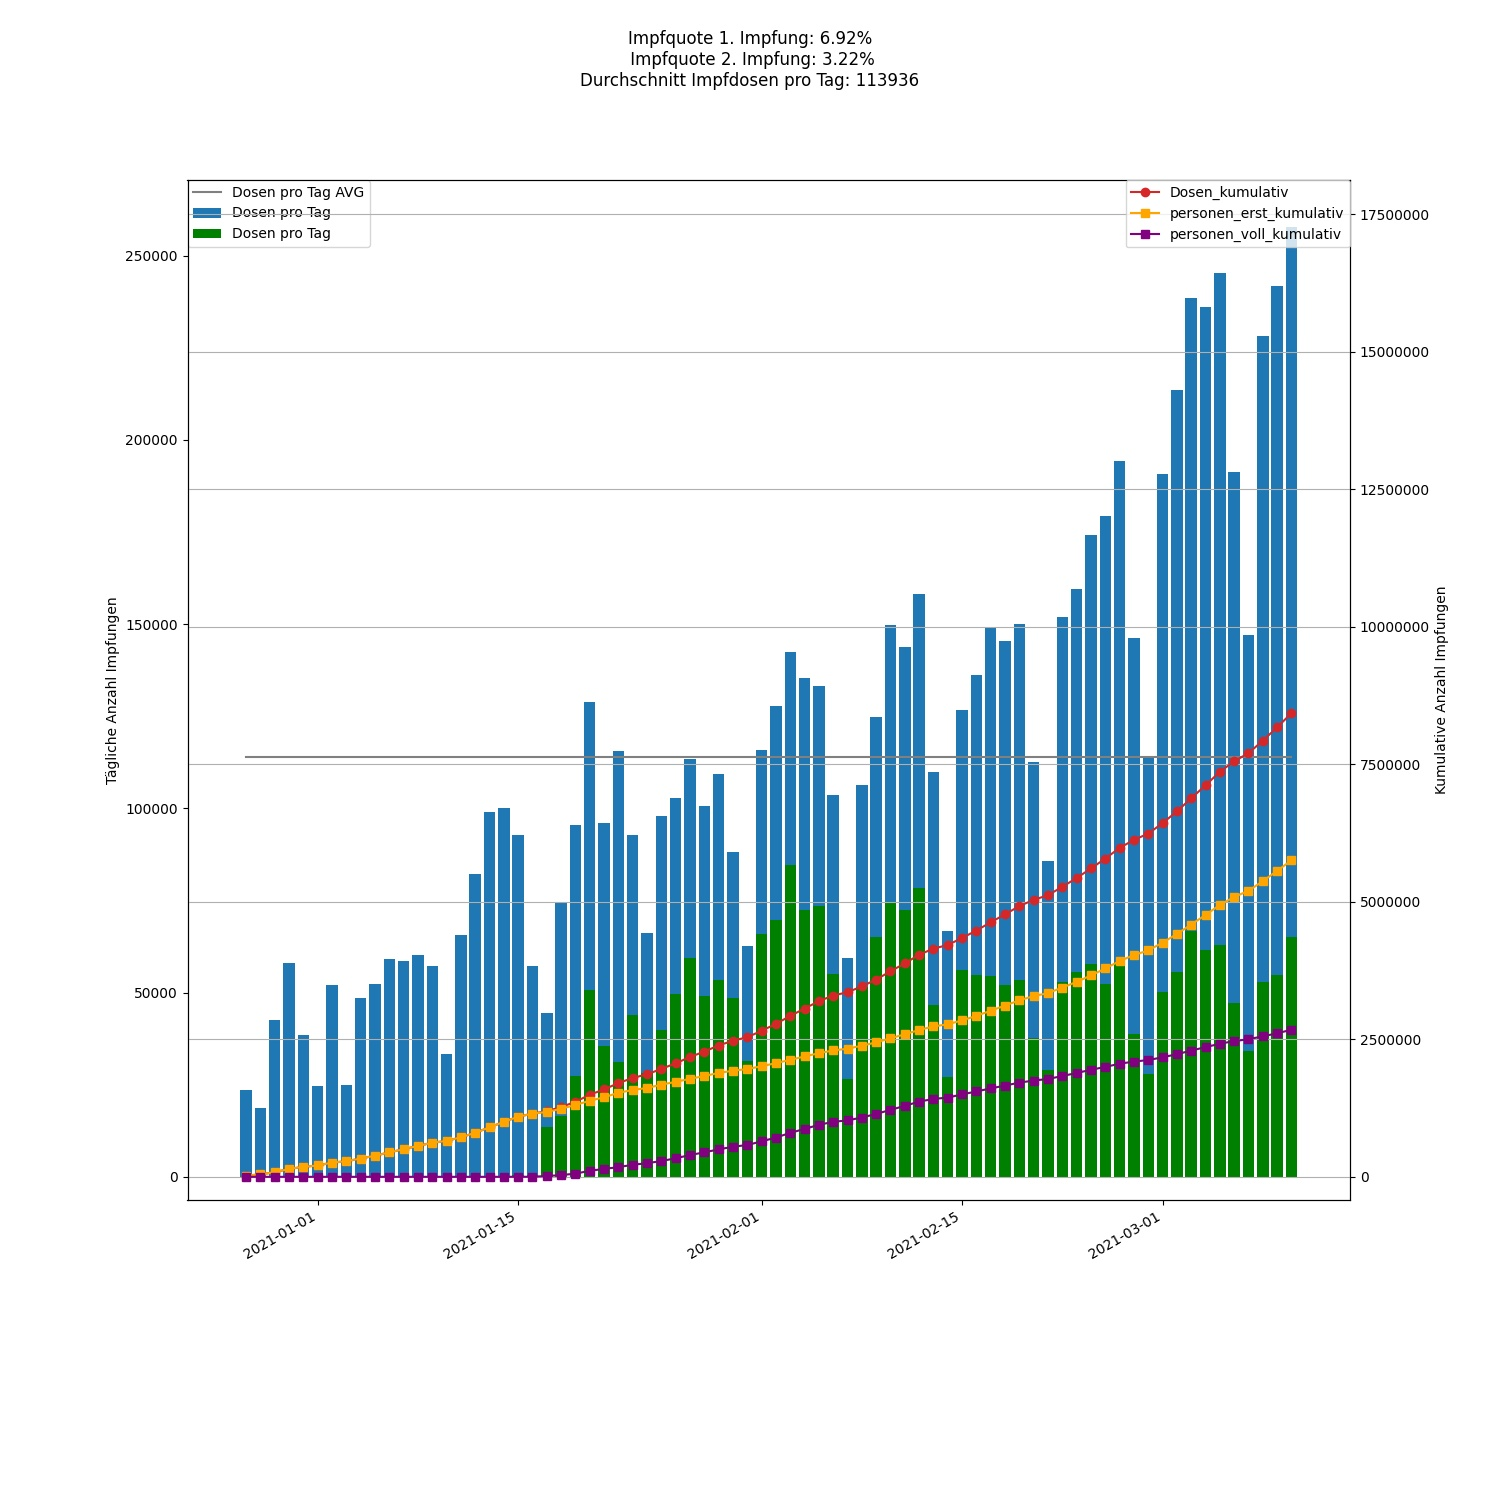
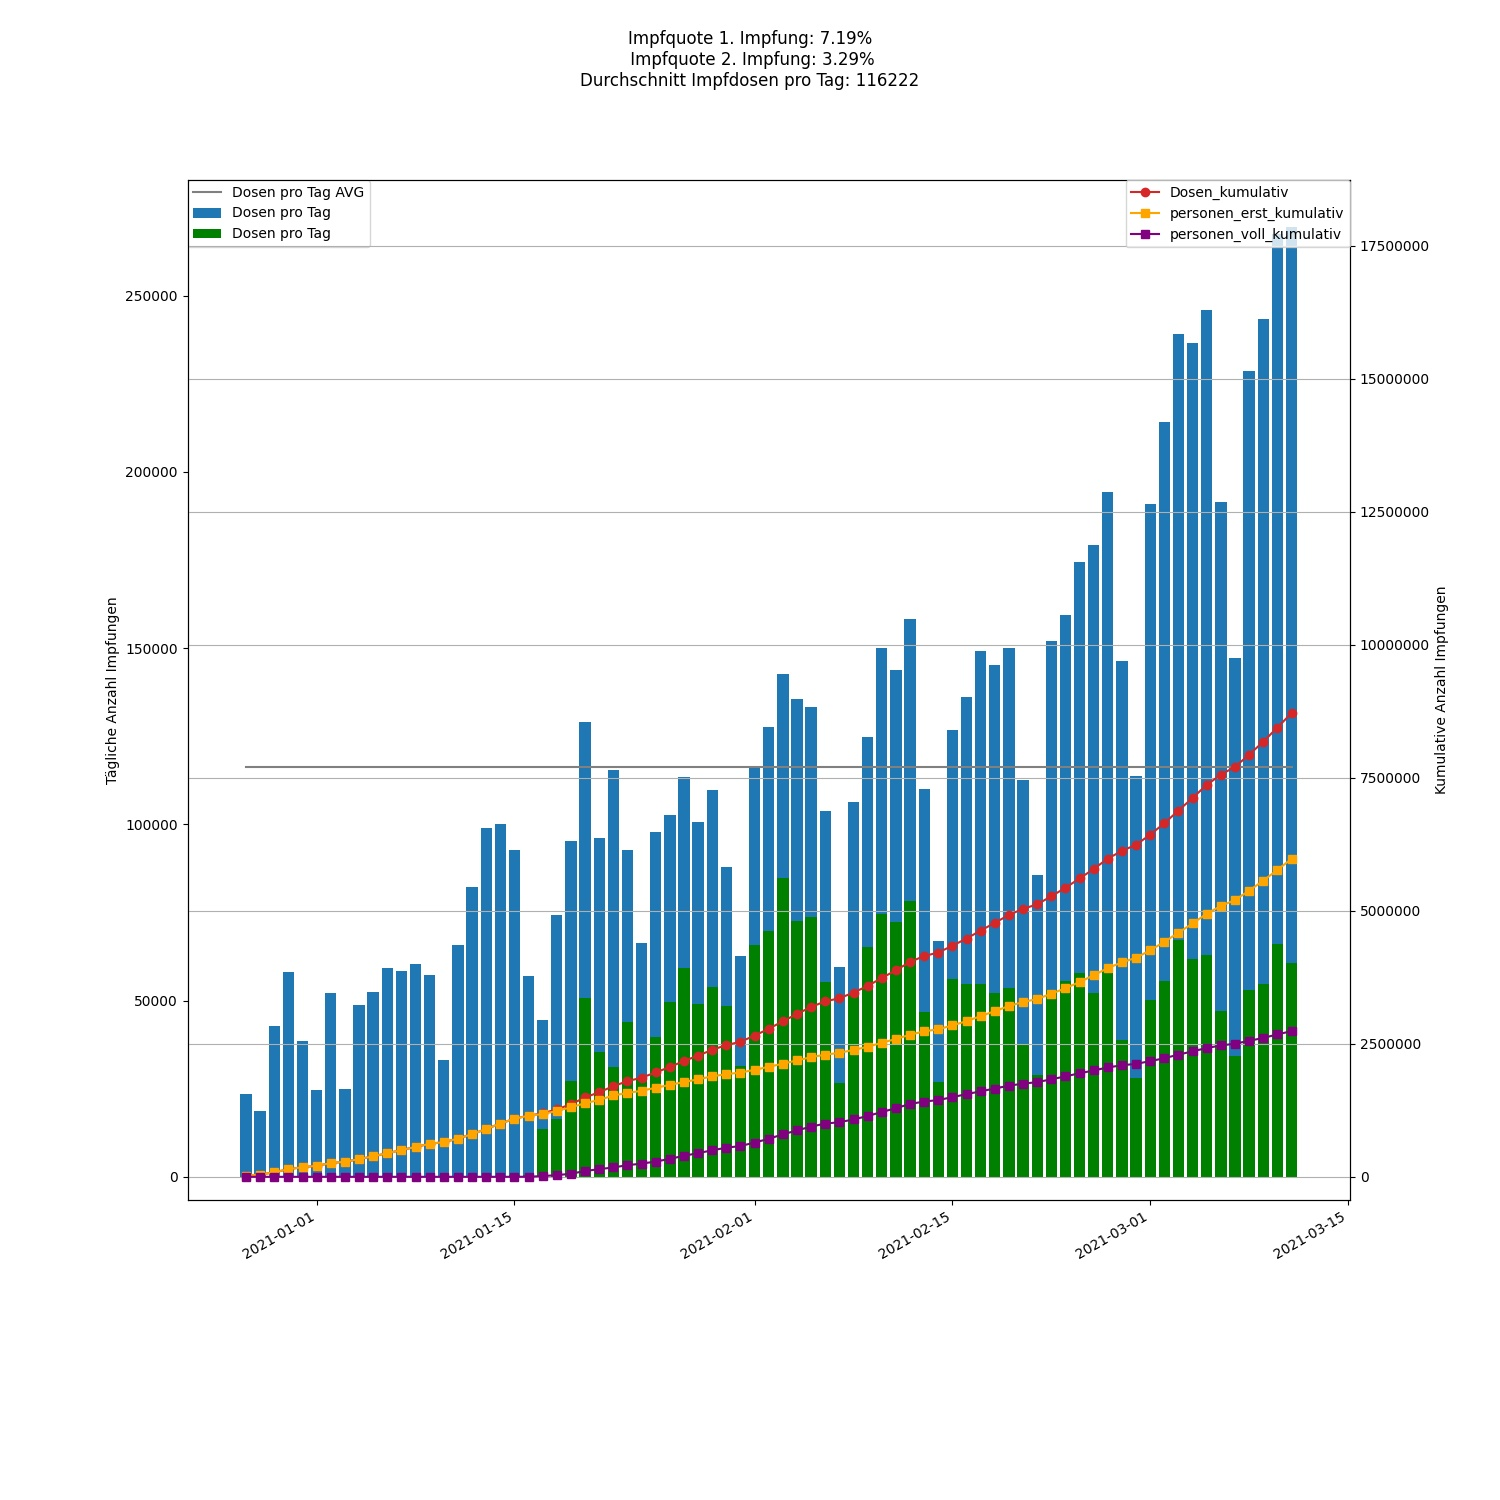
Crontab commit

diff --git a/Readme.md b/Readme.md
@@ -1,19 +1,19 @@
-# Corona vaccine Germany - Stand 2021-03-10
+# Corona vaccine Germany - Stand 2021-03-11
 ## Dashboard by [Simon Hamacher](https://www.shamacher.eu)
 ## Impfstoffe Übersicht
 **Impfstoffhersteller** | **verimpfte Dosen**
 -------- | :--------:
-Biontech | 6926842
-Moderna | 275631
-Astrazeneca | 1228791
+Biontech | 7082319
+Moderna | 288039
+Astrazeneca | 1346296
 
 
 ## Quoten
-**Total Verimpfte Dosen:** | 8431264
+**Total Verimpfte Dosen:** | 8716654
 -------- | :--------:
-**Erst-Impfquote** | 6.92 %
-**Voll-Impfquote** | 3.22 %
-**Imfungen Durchschnitt** | 113936.00 pro Tag
+**Erst-Impfquote** | 7.19 %
+**Voll-Impfquote** | 3.29 %
+**Imfungen Durchschnitt** | 116222.05 pro Tag
 ## Graphen
 <img src="Impfungen-Corona-01.jpg" alt="Corona-1" title="optionaler Titel" />
 <img src="Impfungen-Corona-02.jpg" alt="Corona-2" title="optionaler Titel" />
